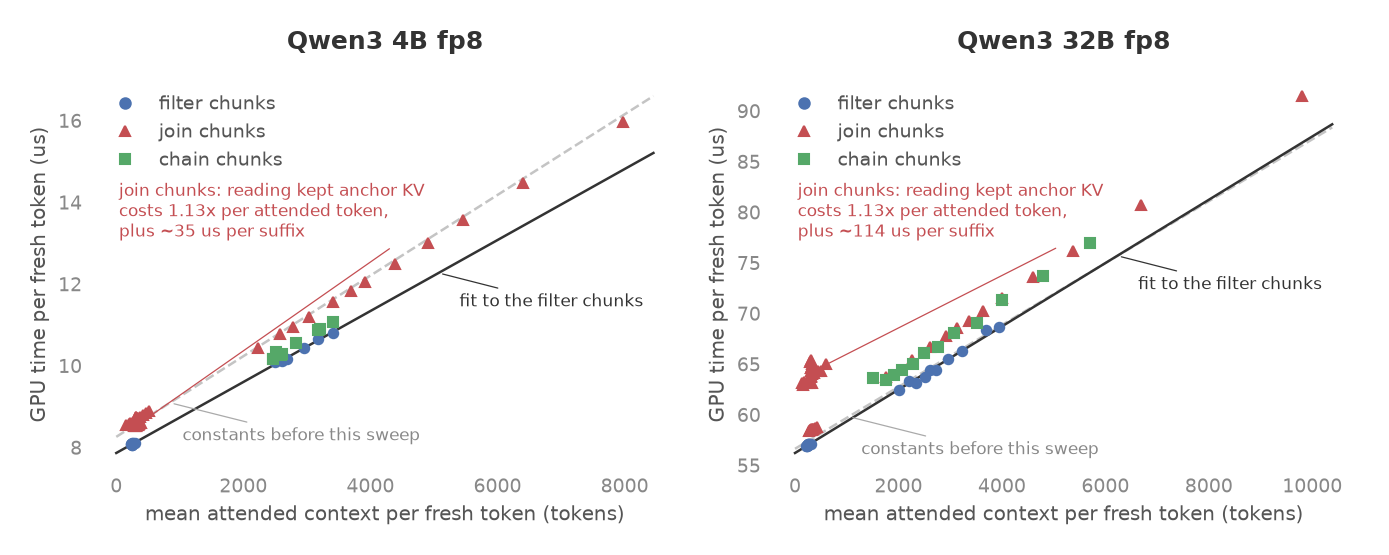
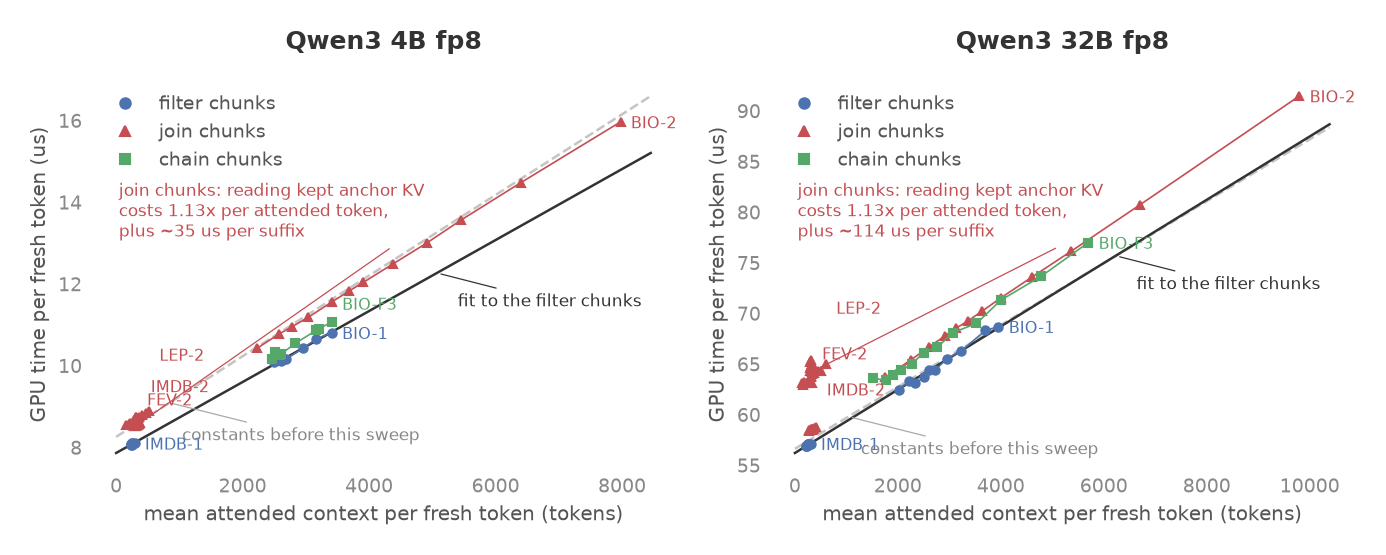
Context plot: one labeled series per query
Each query's chunk bins are now a thin line with the query id at its
end, so per-query trends read directly against the shared fit; color
still encodes the shape kind.

Claude-Session: https://claude.ai/code/session_01MqeFXag6J4CYeM158oRseU

diff --git a/quail/reports/make_packing_sweep_plots.py b/quail/reports/make_packing_sweep_plots.py
@@ -44,14 +44,31 @@ for ax, model in zip(axes, MODELS):
     a, a2c = fit["a_s_per_token"], fit["a2c_s_per_token2"]
     old = data["loaded_before"][model]
     xs_all = []
+    # one series per query: its bins joined by a thin line, the query
+    # id written at the series' end (color still says the kind)
+    ends = []
     for qid, q in sorted(block["queries"].items()):
         color = KIND_COLOR[q["kind"]]
         marker = KIND_MARK[q["kind"]]
-        xs = [b["x_mean_ctx"] for b in q["chunk_bins"]]
-        ys = [b["us_per_token"] for b in q["chunk_bins"]]
+        bins_q = sorted(q["chunk_bins"], key=lambda b: b["x_mean_ctx"])
+        xs = [b["x_mean_ctx"] for b in bins_q]
+        ys = [b["us_per_token"] for b in bins_q]
         xs_all += xs
-        ax.plot(xs, ys, marker, color=color, markersize=4.5,
-                linestyle="none", zorder=3)
+        ax.plot(xs, ys, marker, color=color, markersize=4,
+                linestyle="-", linewidth=0.8, zorder=3)
+        ends.append((xs[-1], ys[-1], qid, color))
+    # stagger the labels of series that end close together
+    ends.sort(key=lambda e: (round(e[0], -2), e[1]))
+    last_x = None
+    stack = 0
+    for x, y, qid, color in ends:
+        stack = stack + 1 if (last_x is not None
+                              and abs(x - last_x) < max(xs_all) * 0.08) \
+            else 0
+        last_x = x
+        ax.annotate(qid, (x, y), textcoords="offset points",
+                    xytext=(5, -3 + 9 * stack), fontsize=7.5,
+                    color=color)
     lo, hi = 0, max(xs_all) * 1.06
     grid = [lo + (hi - lo) * i / 60 for i in range(61)]
     # the causal fit in this x (mean attended context): t = a + 2*a2c*x
